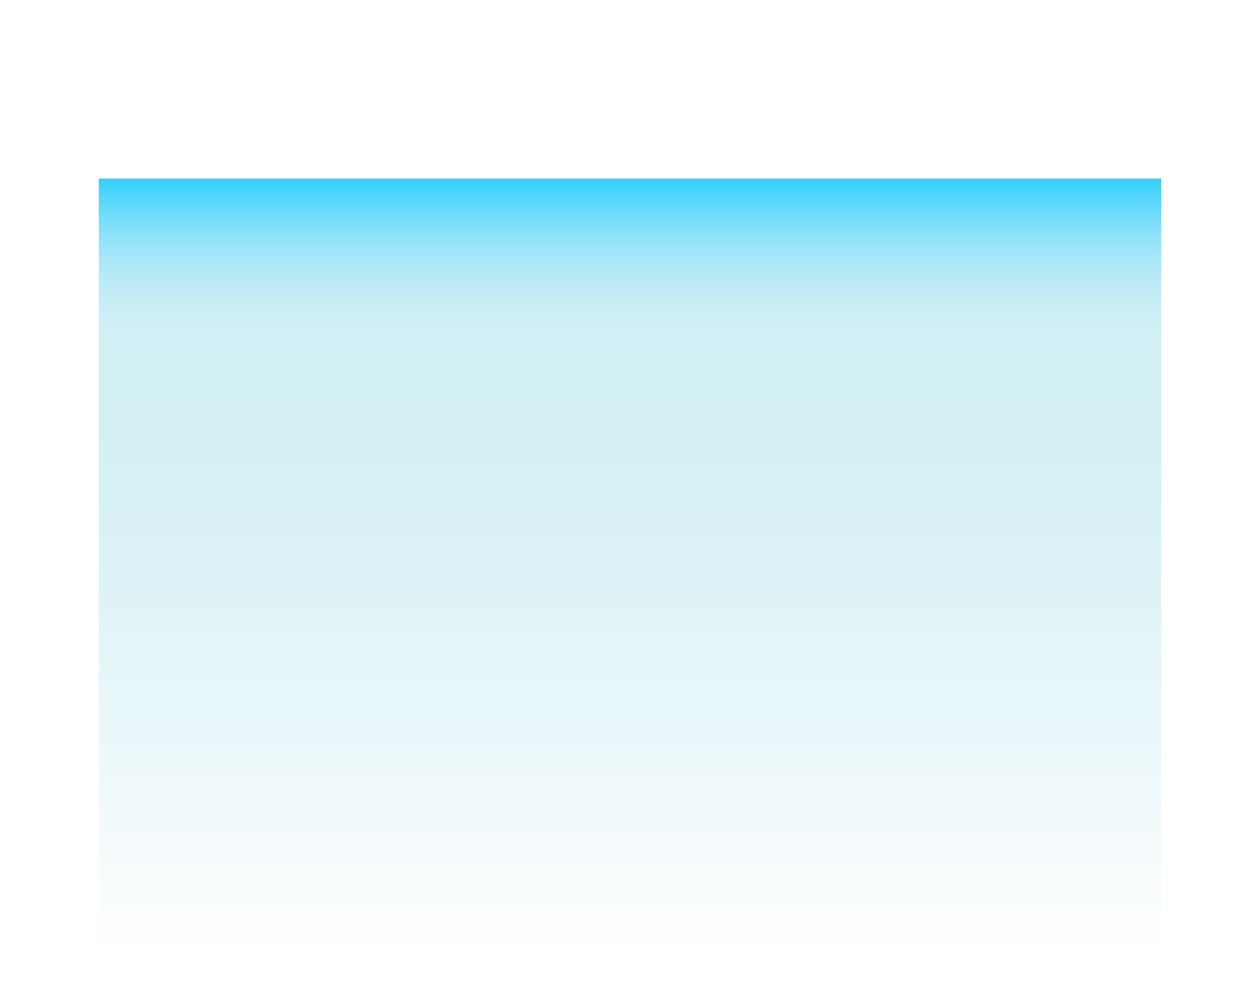
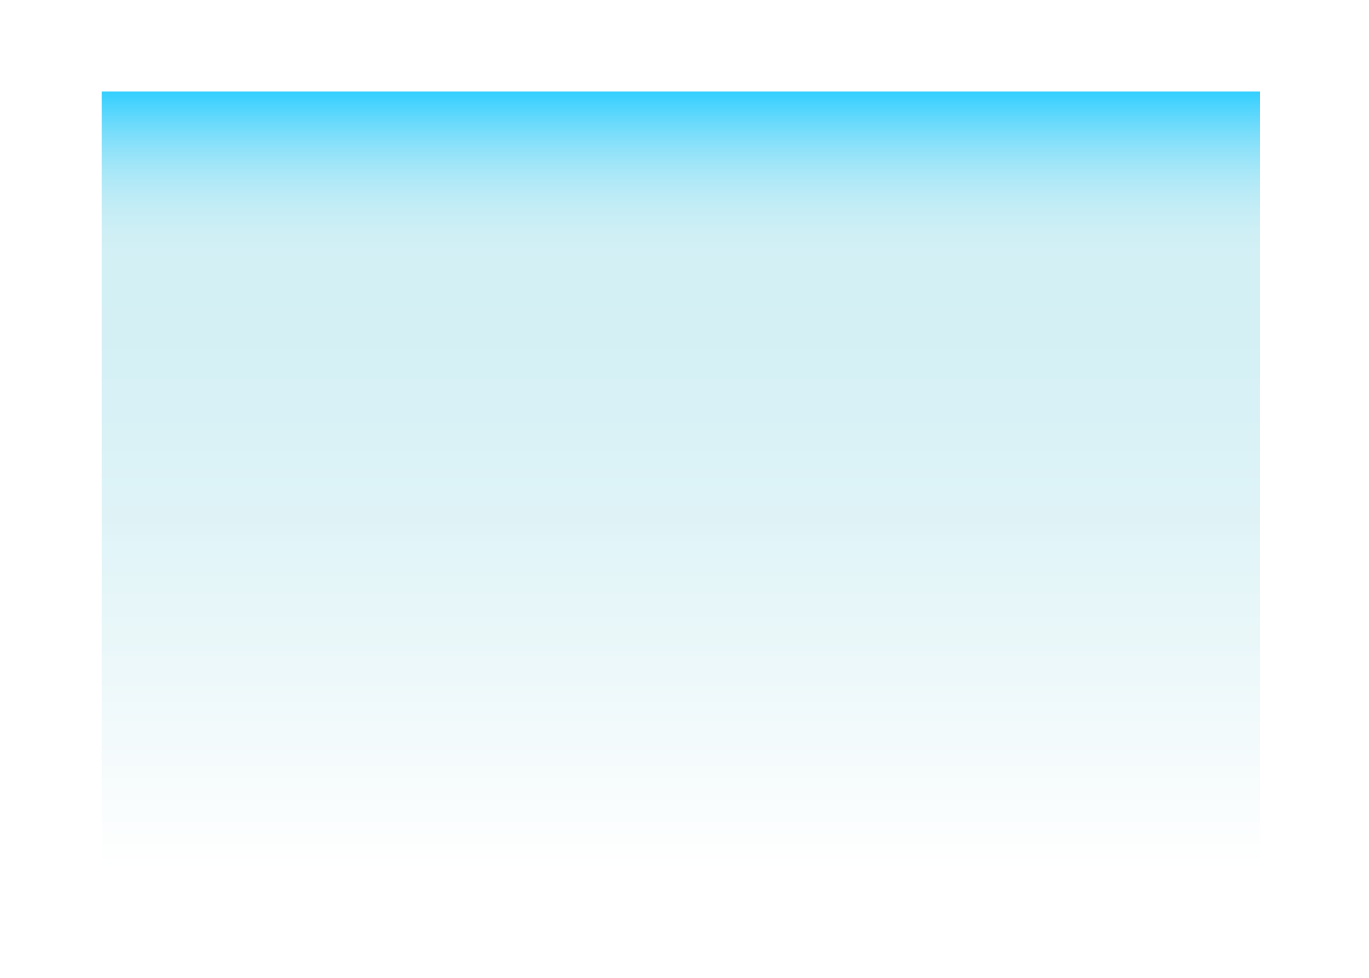
backround

Changed region(s): [[0.0619, 0.092, 0.9286, 0.6135]]

diff --git a/user/css/main.css b/user/css/main.css
@@ -1,17 +1,18 @@
 html, body { 
 	  height:100%;
 	  width: 100%;
-  background: url(../images/backround.png) no-repeat center center fixed; 
-  -webkit-background-size: cover;
-  -moz-background-size: cover;
-  -o-background-size: cover;
-  background-size: cover;
+  background: url(../images/backround-tra.png) no-repeat center center fixed; 
+  -webkit-background-size: contain;
+  -moz-background-size: contain;
+  -o-background-size: contain;
+  background-size: contain; ;
+  /*margin-top: 15%;*/
   /*overflow: auto ;*/
 }
 
 header{
 	margin-top: 0%;
-	height: 15%;
+	height: 20%;
 	width:100%;
 	
 	/*background-color: black; */
